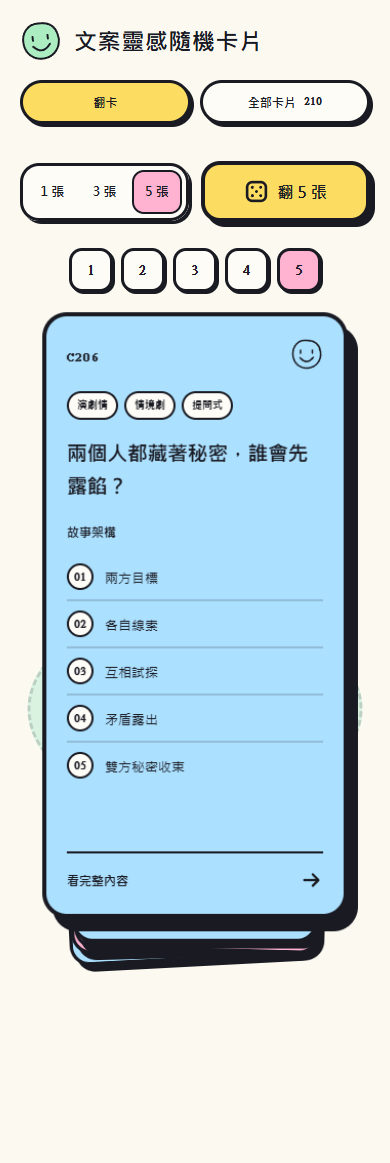
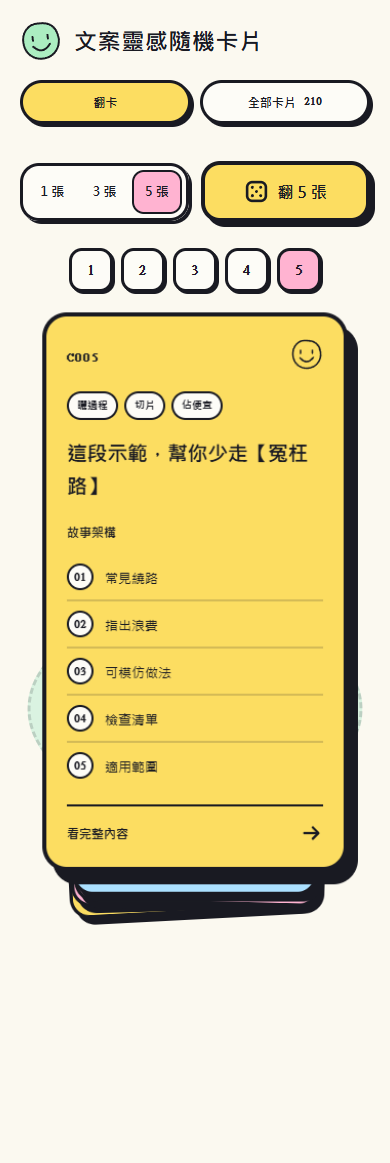
Open full details by clicking anywhere on a drawn card

diff --git a/app.js b/app.js
@@ -127,7 +127,7 @@
     results.dataset.count = count;
     while (results.children.length > count) results.lastElementChild.remove();
     while (results.children.length < count) {
-      const article = document.createElement('article');
+      const article = document.createElement('a');
       article.id = results.children.length ? 'draw-card-' + (results.children.length+1) : 'inspiration-card';
       article.className = 'inspiration-card is-cover';
       article.setAttribute('aria-label','待翻開的文案靈感卡');
@@ -138,16 +138,13 @@
         if(event.pointerType==='mouse' && article.dataset.cardId) setActiveHand(index);
       });
       article.addEventListener('focusin',()=>{if(article.dataset.cardId)setActiveHand(index);});
-      article.addEventListener('click',event=>{
-        if(!event.target.closest('a') && article.dataset.cardId){setActiveHand(index);article.focus({preventScroll:true});}
-      });
       article.addEventListener('keydown',event=>{
         if(event.target!==article) return;
         if(['ArrowLeft','ArrowRight','Home','End'].includes(event.key)){
           event.preventDefault();
           const next=event.key==='Home'?0:event.key==='End'?results.children.length-1:(index+(event.key==='ArrowRight'?1:-1)+results.children.length)%results.children.length;
           results.children[next].focus({preventScroll:true});
-        } else if(event.key==='Enter') $('.card-detail-link',article)?.click();
+        }
       });
       results.append(article);
     }
@@ -159,8 +156,10 @@
       const article = $('#draw-results').children[index];
       article.className = 'inspiration-card card-' + themeColor(card);
       article.dataset.cardId = card.id;
-      article.setAttribute('aria-label',card.id + ' ' + card.template);
-      $('.card-content',article).innerHTML = '<div class="card-meta"><span class="card-code">' + card.id + '</span><span class="mini-face" aria-hidden="true">' + icon('smile') + '</span></div>' + tags(card) + '<h2 class="draw-card-title">' + escape(card.template) + '</h2><div class="section-label">故事架構</div>' + structure(card) + '<a class="card-detail-link" href="#card/' + card.id + '" data-open-card="' + card.id + '">看完整內容 ' + icon('arrow') + '</a>';
+      article.href='#card/'+card.id;
+      article.dataset.openCard=card.id;
+      article.setAttribute('aria-label','看完整內容：' + card.id + ' ' + card.template);
+      $('.card-content',article).innerHTML = '<div class="card-meta"><span class="card-code">' + card.id + '</span><span class="mini-face" aria-hidden="true">' + icon('smile') + '</span></div>' + tags(card) + '<h2 class="draw-card-title">' + escape(card.template) + '</h2><div class="section-label">故事架構</div>' + structure(card) + '<span class="card-detail-link">看完整內容 ' + icon('arrow') + '</span>';
     });
     renderHandPicker();
     layoutHand();

diff --git a/index.html b/index.html
@@ -6,10 +6,10 @@
   <meta name="theme-color" content="#faf8ee">
   <meta name="description" content="一次抽 1、3 或 5 張文案靈感卡，從 210 種短影音架構中找到下一個點子。">
   <title>文案靈感隨機卡片</title>
-  <link rel="icon" href="assets/favicon.svg?v=hand-1" type="image/svg+xml">
-  <link rel="stylesheet" href="styles.css?v=hand-1">
+  <link rel="icon" href="assets/favicon.svg?v=hand-2" type="image/svg+xml">
+  <link rel="stylesheet" href="styles.css?v=hand-2">
   <script src="data/catalog.js" defer></script>
-  <script src="app.js?v=hand-1" defer></script>
+  <script src="app.js?v=hand-2" defer></script>
 </head>
 <body>
 <a class="skip-link" href="#main">跳到主要內容</a>

diff --git a/styles.css b/styles.css
@@ -71,6 +71,7 @@ main { max-width: 1160px; margin: 0 auto; padding: 22px 28px 35px; }
 #draw-results .card-mint { background: var(--mint); }
 #draw-results .is-active { box-shadow: 10px 13px 0 var(--ink); }
 .card-content { display: flex; flex-direction: column; height: 100%; min-height: 0; backface-visibility: hidden; }
+.inspiration-card { color: var(--ink); text-decoration: none; }
 .card-meta { display: flex; align-items: center; justify-content: space-between; gap: 15px; }
 #draw-results .draw-card-title { font-size: 21px; line-height: 1.6; }
 #draw-results .section-label { margin-top: 19px; }

diff --git a/docs/ACCEPTANCE.md b/docs/ACCEPTANCE.md
@@ -15,7 +15,7 @@ Chromium 執行 tests/smoke.cjs，12 組操作檢查全部通過。沒有 JavaSc
 | 手機 | 編號選牌會切換前景卡；連抽時控制按鈕位置保持穩定 |
 | 無捲動區 | 390px 下逐一抽出全部 210 張，檢查正文未裁切且沒有內部 auto／scroll 容器 |
 | 響應式 | 320、360、390、768、1024、1440px 下的抽卡、列表與詳情沒有水平溢位 |
-| 詳情 | 進出保留整手結果；兩個範例可展開 |
+| 詳情 | 點卡面題目或架構步驟均開啟完整內容；整張卡為原生連結、沒有巢狀連結；返回保留整手結果 |
 | 列表 | 210 張、搜尋、空結果復原、七種主題篩選、返回焦點正常 |
 | 複製 | 實際剪貼簿文字及無權限的手動選取方案正常 |
 | 減少動態 | 即時更新結果，無翻牌動畫；鍵盤仍可操作 |

diff --git a/README.md b/README.md
@@ -5,8 +5,8 @@
 ![文案靈感隨機卡片](docs/screenshots/preview.png)
 
 - **1／3／5 張抽選**：卡片聚攏、翻面，再像遊戲手牌般展開。
-- **挑一張看看**：滑鼠移到卡片就會放大；手機可點卡片或編號切換。
-- **完整架構**：卡片沒有內部捲動條，點進詳情可看兩個示例與拍攝提醒，也能複製架構。
+- **挑一張看看**：滑鼠移到卡片就會放大；手機可用編號切換，點卡面直接看詳情。
+- **完整架構**：卡片沒有內部捲動條，點卡面任何位置可進入詳情看兩個示例與拍攝提醒，也能複製架構。
 - **全部卡片**：搜尋 210 種架構，依主題找到想要的切角。
 
 免註冊，支援桌機、手機、鍵盤和減少動態設定。

diff --git a/PRODUCT.md b/PRODUCT.md
@@ -17,8 +17,8 @@ product
 1. 選擇 1、3、5 張，按抽卡按鈕。
 2. 卡片先聚攏，再翻面並扇形展開。
 3. 桌機滑過卡片時抬起、放大、移到最前方；鍵盤聚焦亦相同，左右鍵可選相鄰卡片。
-4. 手機點卡片或編號按鈕切換放大的牌。
-5. 點「看完整內容」閱讀架構、兩個示例與拍攝提醒，也能複製架構。
+4. 手機用編號切換放大的牌，點卡面直接進入詳情。
+5. 點卡片任意位置閱讀架構、兩個示例與拍攝提醒，也能複製架構。
 6. 返回保留抽卡結果及位置；全部卡片支援搜尋和主題篩選。
 
 ## Brand Personality

diff --git a/docs/DESIGN_REVIEW.md b/docs/DESIGN_REVIEW.md
@@ -21,3 +21,5 @@
 - 控制位置、抽選、搜尋、詳情返回與複製回歸。
 
 數據見 [TEST_RESULTS.json](TEST_RESULTS.json)，畫面見 [放大狀態](screenshots/hand-hover-desktop.png)及[手機手牌](screenshots/hand-five-mobile.png)。
+
+整張已抽出的卡面是單一原生連結；點題目、步驟或底部提示都進入完整內容。手機用編號選牌，點卡面直接進入詳情。
